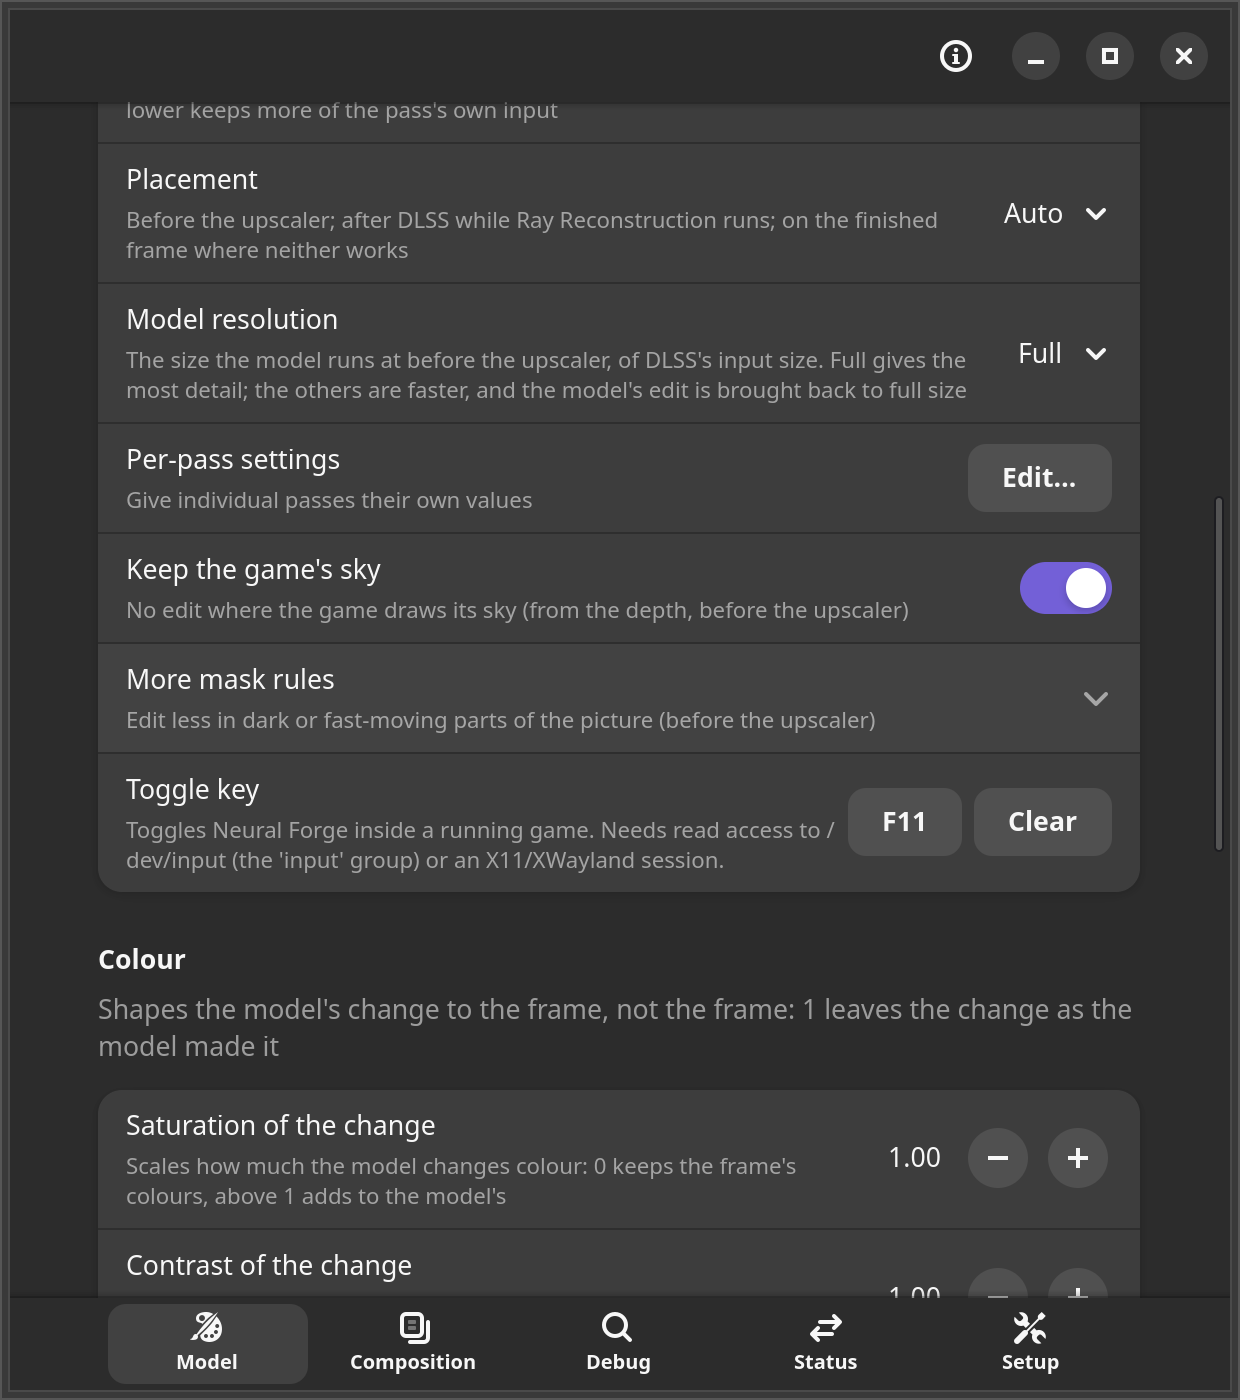
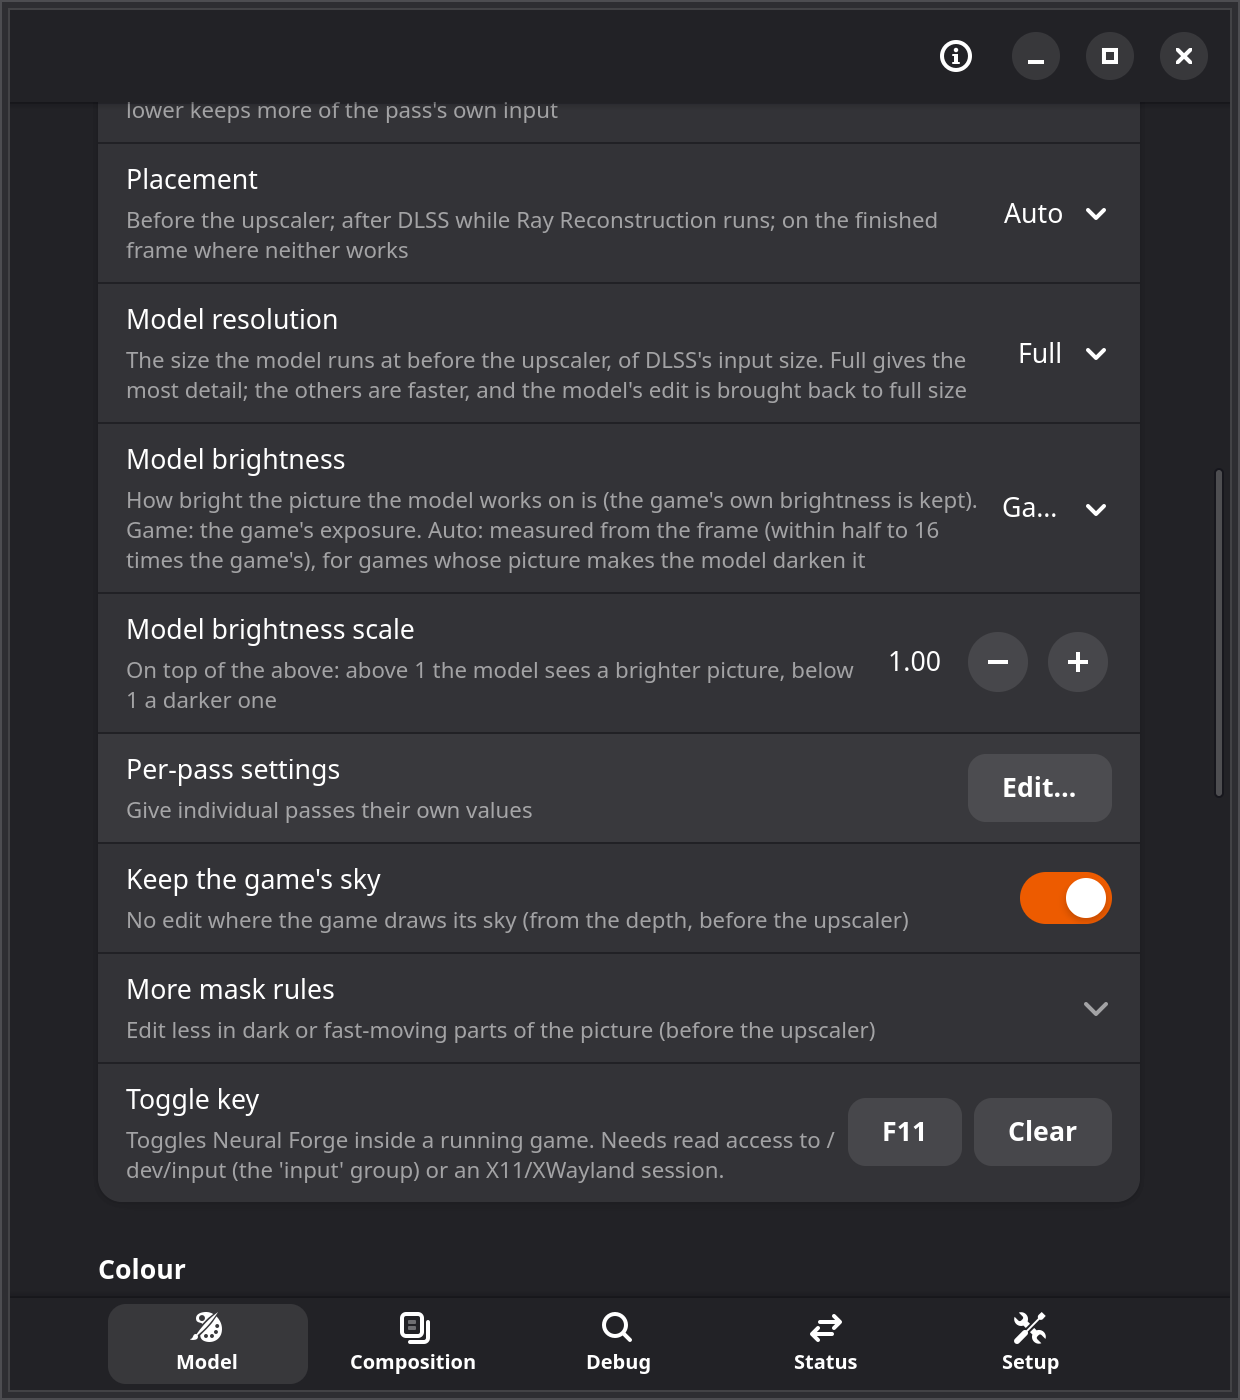
Screenshots: retake the Model and Status tabs from 3.8.14
The old ones predated 3.8.10 (Model brightness rows, the new telemetry graph).

diff --git a/README.md b/README.md
@@ -17,7 +17,7 @@ Repository: [labj1987/neural-forge](https://github.com/labj1987/neural-forge).
 
 | Model settings | Setup | Status |
 |---|---|---|
-| ![Model tab, scrolled to the middle: Placement (Auto), Model resolution (Full), Per-pass settings, Keep the game's sky, More mask rules, the toggle key, and the start of the Colour group with saturation and contrast of the change; above are the switch, style, strength and passes, below the rest of the Colour group and the HUD on the finished frame](screenshots/settings.png) | ![Setup tab: the model present (the full and the small network of build 310.9.16.0), the Network choice, the Steam games with their switches, the executables they target and an edit button each, and the launch option NEURAL_FORGE_ENABLE=1 NEURAL_FORGE_TARGET_EXE=PlayGTAV.exe,GTA5_Enhanced.exe %command% for Grand Theft Auto V Enhanced](screenshots/setup.png) | ![Status tab: telemetry (model, game, frame rate and the graph of the frame time and the model's GPU time), then the layer state, the Model placement line and the model (the full and the small network of build 310.9.16.0)](screenshots/status.png) |
+| ![Model tab, scrolled to the middle: Placement (Auto), Model resolution (Full), Model brightness (Game) and its scale, Per-pass settings, Keep the game's sky, More mask rules, the toggle key, and the start of the Colour group with saturation and contrast of the change; above are the switch, style, strength and passes, below the rest of the Colour group and the HUD on the finished frame](screenshots/settings.png) | ![Setup tab: the model present (the full and the small network of build 310.9.16.0), the Network choice, the Steam games with their switches, the executables they target and an edit button each, and the launch option NEURAL_FORGE_ENABLE=1 NEURAL_FORGE_TARGET_EXE=PlayGTAV.exe,GTA5_Enhanced.exe %command% for Grand Theft Auto V Enhanced](screenshots/setup.png) | ![Status tab: telemetry (model, game, frame rate and the graph of the frame time and the model's GPU time), then the layer state, the Model placement line and the model (the full and the small network of build 310.9.16.0)](screenshots/status.png) |
 
 The screenshots show default settings with no game running.
 
